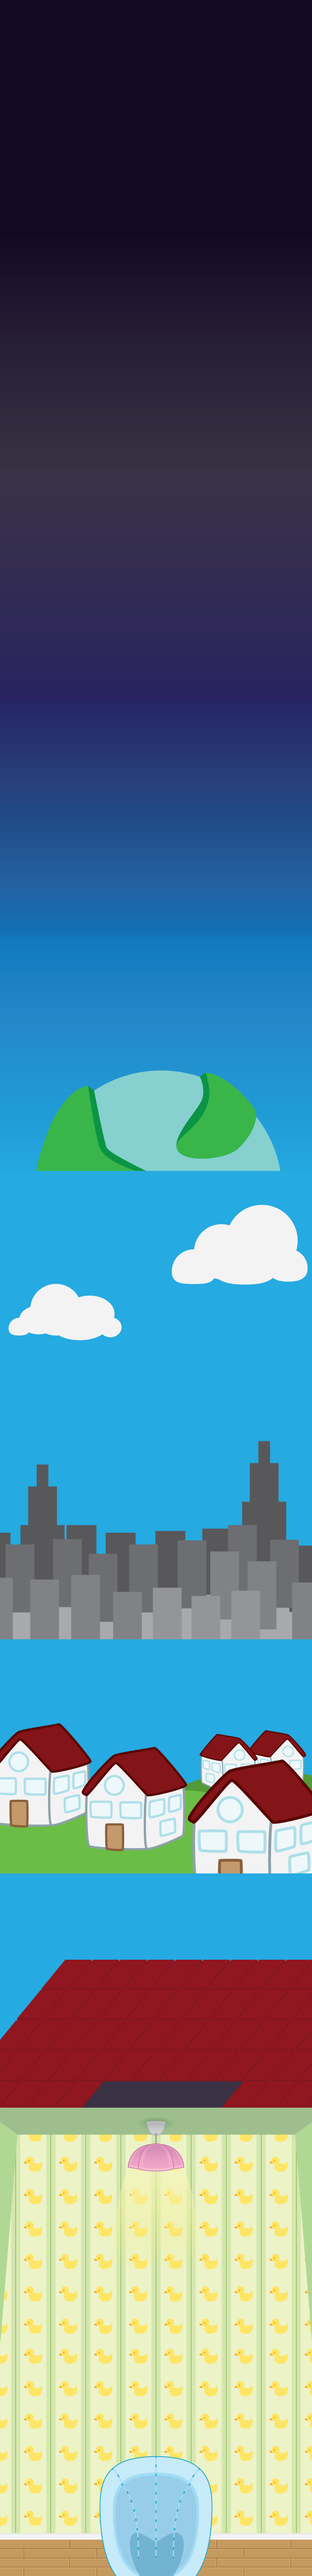
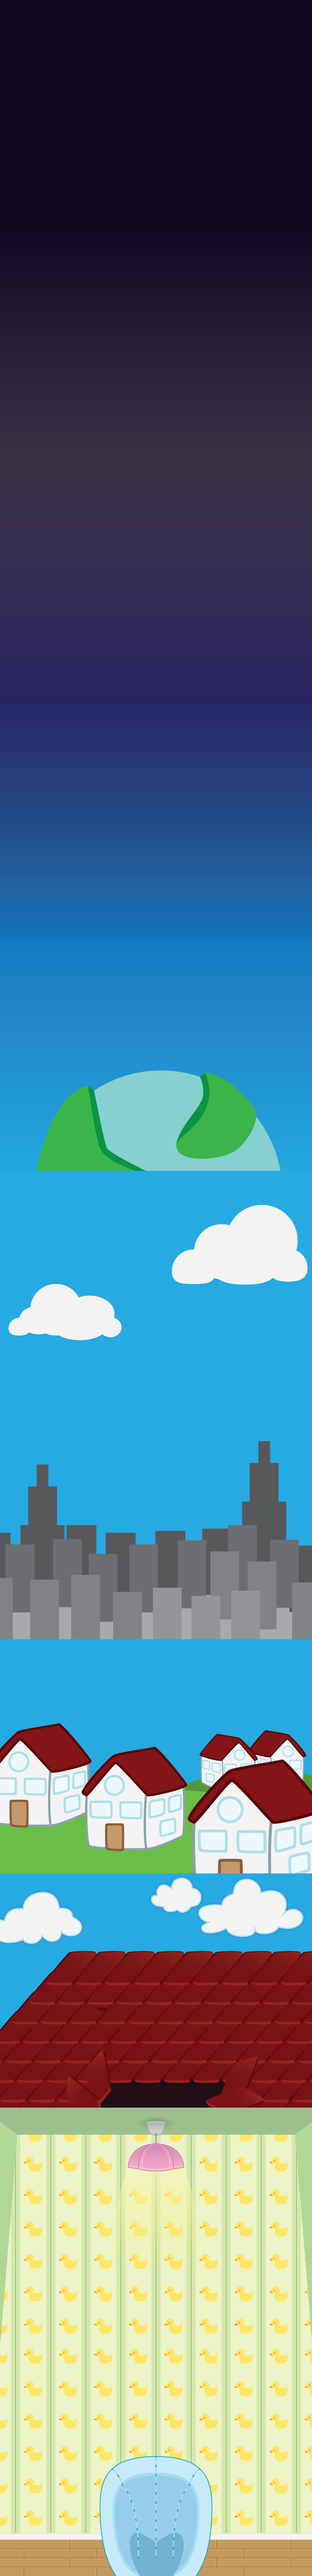
Ticking stops on new round - updating BG

Changed region(s): [[0.0, 0.7179, 1.0, 0.8427]]

diff --git a/src/scripts/entity/game-timer.ts b/src/scripts/entity/game-timer.ts
@@ -27,6 +27,10 @@ module Ldm34.Entity {
             this.totalTime = totalTime * Phaser.Timer.SECOND;
             this.startTime = (new Date()).getTime();
             this.running = true;
+
+            if (this.sound && this.sound.isPlaying) {
+                this.sound.stop();
+            }
         }
 
         update() {
